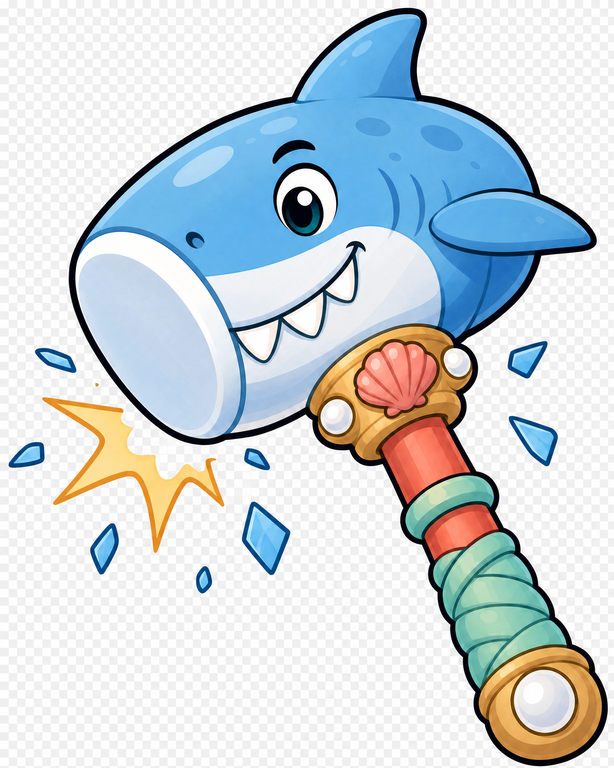
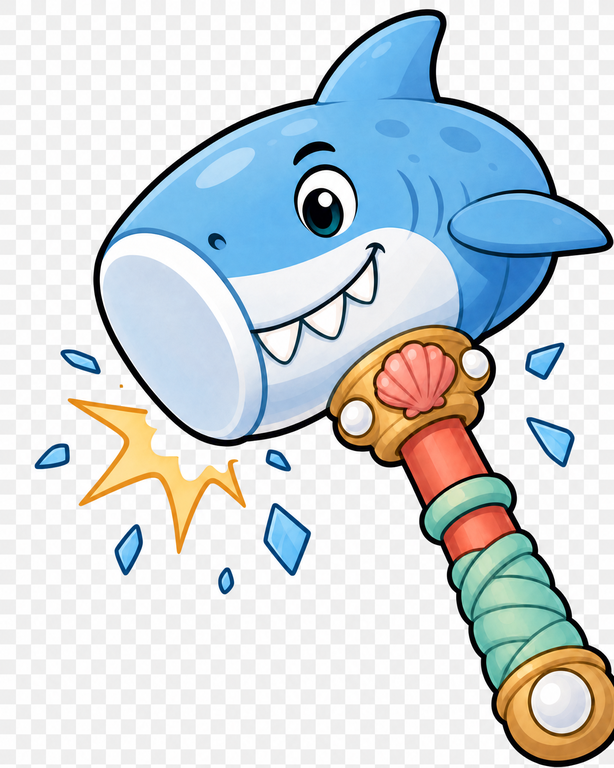
Checkpoint: 망치 사용 가능 상태에서 아이콘이 은은하게 반짝이고 약간 확대되도록 했으며, 망치 활성화 시 짧은 흔들림 효과를 추가했습니다. 망치 횟수가 0이면 횟수 숫자가 빨간색으로 표시됩니다. 흰색·남색 카드 배경을 제거한 완전 투명 상어 망치 PNG로 교체하고 횟수 글자 크기를 2포인트 키웠습니다. TypeScript 검사와 Vitest 34개 테스트를 통과했습니다.

diff --git a/app/(tabs)/index.tsx b/app/(tabs)/index.tsx
@@ -612,6 +612,8 @@ export default function HomeScreen() {
   const elapsedSecondsRef = useRef(elapsedSeconds);
   const flightProgress = useRef(new Animated.Value(0)).current;
   const comboCompanionScale = useRef(new Animated.Value(1)).current;
+  const hammerShine = useRef(new Animated.Value(0)).current;
+  const hammerImpact = useRef(new Animated.Value(0)).current;
   const layoutTransition = useRef(new Animated.Value(1)).current;
   const bossIntroProgress = useRef(new Animated.Value(0)).current;
   const shuffleMotion = useRef(new Animated.Value(0)).current;
@@ -632,6 +634,19 @@ export default function HomeScreen() {
   const companionAttackPlayer = useAudioPlayer(require("../../assets/sounds/companion-attack.wav"));
   const foundationAttackPlayer = useAudioPlayer(require("../../assets/sounds/foundation-attack.wav"));
   const backgroundPlayer = useAudioPlayer(require("../../assets/sounds/medieval-solitaire-loop.mp3"));
+
+  useEffect(() => {
+    hammerShine.stopAnimation();
+    hammerShine.setValue(0);
+    if (hammerCharges <= 0) return;
+    const shineLoop = Animated.loop(Animated.sequence([
+      Animated.timing(hammerShine, { toValue: 1, duration: 520, easing: Easing.inOut(Easing.quad), useNativeDriver: true }),
+      Animated.timing(hammerShine, { toValue: 0, duration: 520, easing: Easing.inOut(Easing.quad), useNativeDriver: true }),
+      Animated.delay(420),
+    ]));
+    shineLoop.start();
+    return () => shineLoop.stop();
+  }, [hammerCharges, hammerShine]);
 
   useEffect(() => {
     comboCompanionScale.stopAnimation();
@@ -1274,6 +1289,14 @@ export default function HomeScreen() {
     }
     setShowHammerOffer(false);
     setShowNoMovesPopup(false);
+    hammerImpact.stopAnimation();
+    hammerImpact.setValue(0);
+    Animated.sequence([
+      Animated.timing(hammerImpact, { toValue: 1, duration: 70, useNativeDriver: true }),
+      Animated.timing(hammerImpact, { toValue: -1, duration: 70, useNativeDriver: true }),
+      Animated.timing(hammerImpact, { toValue: 0.7, duration: 60, useNativeDriver: true }),
+      Animated.timing(hammerImpact, { toValue: 0, duration: 90, useNativeDriver: true }),
+    ]).start();
     setHammerMode(true);
     setSelection(null);
     showTimedHint("원하는 카드를 클릭하세요");
@@ -1582,10 +1605,12 @@ export default function HomeScreen() {
               <EmptySlot width={cardWidth} cardRatio={renderCardRatio} label="" />
             )}
           </View>
-          <Pressable accessibilityRole="button" accessibilityLabel={`망치 ${hammerCharges}개 남음`} onPress={() => beginHammerMode()} style={({ pressed }) => [styles.hammerPilesButton, { width: cardWidth, height: cardWidth * renderCardRatio }, hammerCharges > 0 && styles.hammerPilesButtonReady, pressed && styles.pressed]}>
-            <Image source={HAMMER_ICON_ART} resizeMode="contain" style={[styles.hammerPilesIcon, { width: Math.min(cardWidth * 0.9, 58), height: Math.min(cardWidth * 0.9, 58) }]} />
-            <Text style={[styles.hammerPilesCount, { fontSize: Math.max(10, Math.round(cardWidth * 0.18)) }]}>{hammerCharges}/3</Text>
-          </Pressable>
+          <Animated.View style={[styles.hammerPilesAnimated, { width: cardWidth, height: cardWidth * renderCardRatio }, { opacity: hammerCharges > 0 ? hammerShine.interpolate({ inputRange: [0, 1], outputRange: [0.82, 1] }) : 0.72 }, { transform: [{ translateX: hammerImpact.interpolate({ inputRange: [-1, 1], outputRange: [-4, 4] }) }, { rotate: hammerImpact.interpolate({ inputRange: [-1, 1], outputRange: ["-5deg", "5deg"] }) }, { scale: hammerCharges > 0 ? hammerShine.interpolate({ inputRange: [0, 1], outputRange: [1, 1.08] }) : 1 }] }]}> 
+            <Pressable accessibilityRole="button" accessibilityLabel={`망치 ${hammerCharges}개 남음`} onPress={() => beginHammerMode()} style={({ pressed }) => [styles.hammerPilesButton, { width: cardWidth, height: cardWidth * renderCardRatio }, hammerCharges > 0 && styles.hammerPilesButtonReady, pressed && styles.pressed]}>
+              <Image source={HAMMER_ICON_ART} resizeMode="contain" style={[styles.hammerPilesIcon, { width: Math.min(cardWidth * 0.9, 58), height: Math.min(cardWidth * 0.9, 58) }]} />
+              <Text style={[styles.hammerPilesCount, hammerCharges <= 0 && styles.hammerPilesCountEmpty, { fontSize: Math.max(12, Math.round(cardWidth * 0.18) + 2) }]}>{hammerCharges}/3</Text>
+            </Pressable>
+          </Animated.View>
           <View style={[styles.foundationGroup, { gap: Math.max(3, Math.round(cardWidth * 0.08)) }]}>
             {SUITS.map((suit) => {
               const card = game.foundations[suit].at(-1);
@@ -1938,10 +1963,12 @@ const styles = StyleSheet.create({
   bottomButton: { minWidth: 126, minHeight: 44, justifyContent: "center", alignItems: "center", borderRadius: 15, borderWidth: 1 },
   bottomButtonPhoneLandscape: { flex: 1, minWidth: 0, minHeight: 44 },
   magnetBottomButton: { minWidth: 116, backgroundColor: "#395479", borderColor: "#A5E6FC" },
-  hammerPilesButton: { alignItems: "center", justifyContent: "center", marginHorizontal: 4, borderRadius: 12, borderWidth: 1.5, borderColor: "#8E6A58", backgroundColor: "rgba(32, 46, 72, 0.82)" },
-  hammerPilesButtonReady: { borderColor: "#FFD86B", backgroundColor: "rgba(111, 61, 43, 0.92)", shadowColor: "#FFB86B", shadowOpacity: 0.75, shadowRadius: 8, elevation: 9 },
+  hammerPilesAnimated: { alignItems: "center", justifyContent: "center", marginHorizontal: 4 },
+  hammerPilesButton: { alignItems: "center", justifyContent: "center", borderRadius: 12, borderWidth: 0, borderColor: "transparent", backgroundColor: "transparent", shadowOpacity: 0, elevation: 0 },
+  hammerPilesButtonReady: { borderWidth: 0, borderColor: "transparent", backgroundColor: "transparent", shadowOpacity: 0, elevation: 0 },
   hammerPilesIcon: { marginTop: -2 },
-  hammerPilesCount: { color: "#FFF3D1", lineHeight: 16, fontWeight: "900", marginTop: -1, textShadowColor: "#17233C", textShadowRadius: 2 },
+  hammerPilesCount: { color: "#FFF3D1", lineHeight: 18, fontWeight: "900", marginTop: -1, textShadowColor: "#17233C", textShadowRadius: 2 },
+  hammerPilesCountEmpty: { color: "#FF5B67", textShadowColor: "#2B0E18", textShadowRadius: 3 },
   hintButton: { backgroundColor: "#233958", borderColor: "#3D5A85" },
   undoButton: { backgroundColor: "#2A4268", borderColor: "#5B78A5" },
   undoButtonDisabled: { opacity: 0.38 },

diff --git a/todo.md b/todo.md
@@ -394,3 +394,9 @@
 - [x] 상어 망치 이미지의 불투명한 바탕 카드 제거
 - [x] 상어·망치 외곽선만 남는 투명 PNG 제작 및 앱 자산 교체
 - [x] 투명 이미지 상단 배치와 카드·파운데이션 겹침 회귀 테스트
+- [x] 망치 사용 가능 상태에 반짝임 애니메이션 추가
+- [x] 망치 사용 순간 짧은 흔들림 애니메이션 추가
+- [x] 망치 횟수 0일 때 숫자를 빨간색으로 표시
+- [x] 흰색·남색 카드 배경이 없는 완전 투명 망치 자산 제작 및 적용
+- [x] 망치 아래 횟수 글자 크기 2포인트 확대
+- [x] 망치 UI와 애니메이션 회귀 테스트
